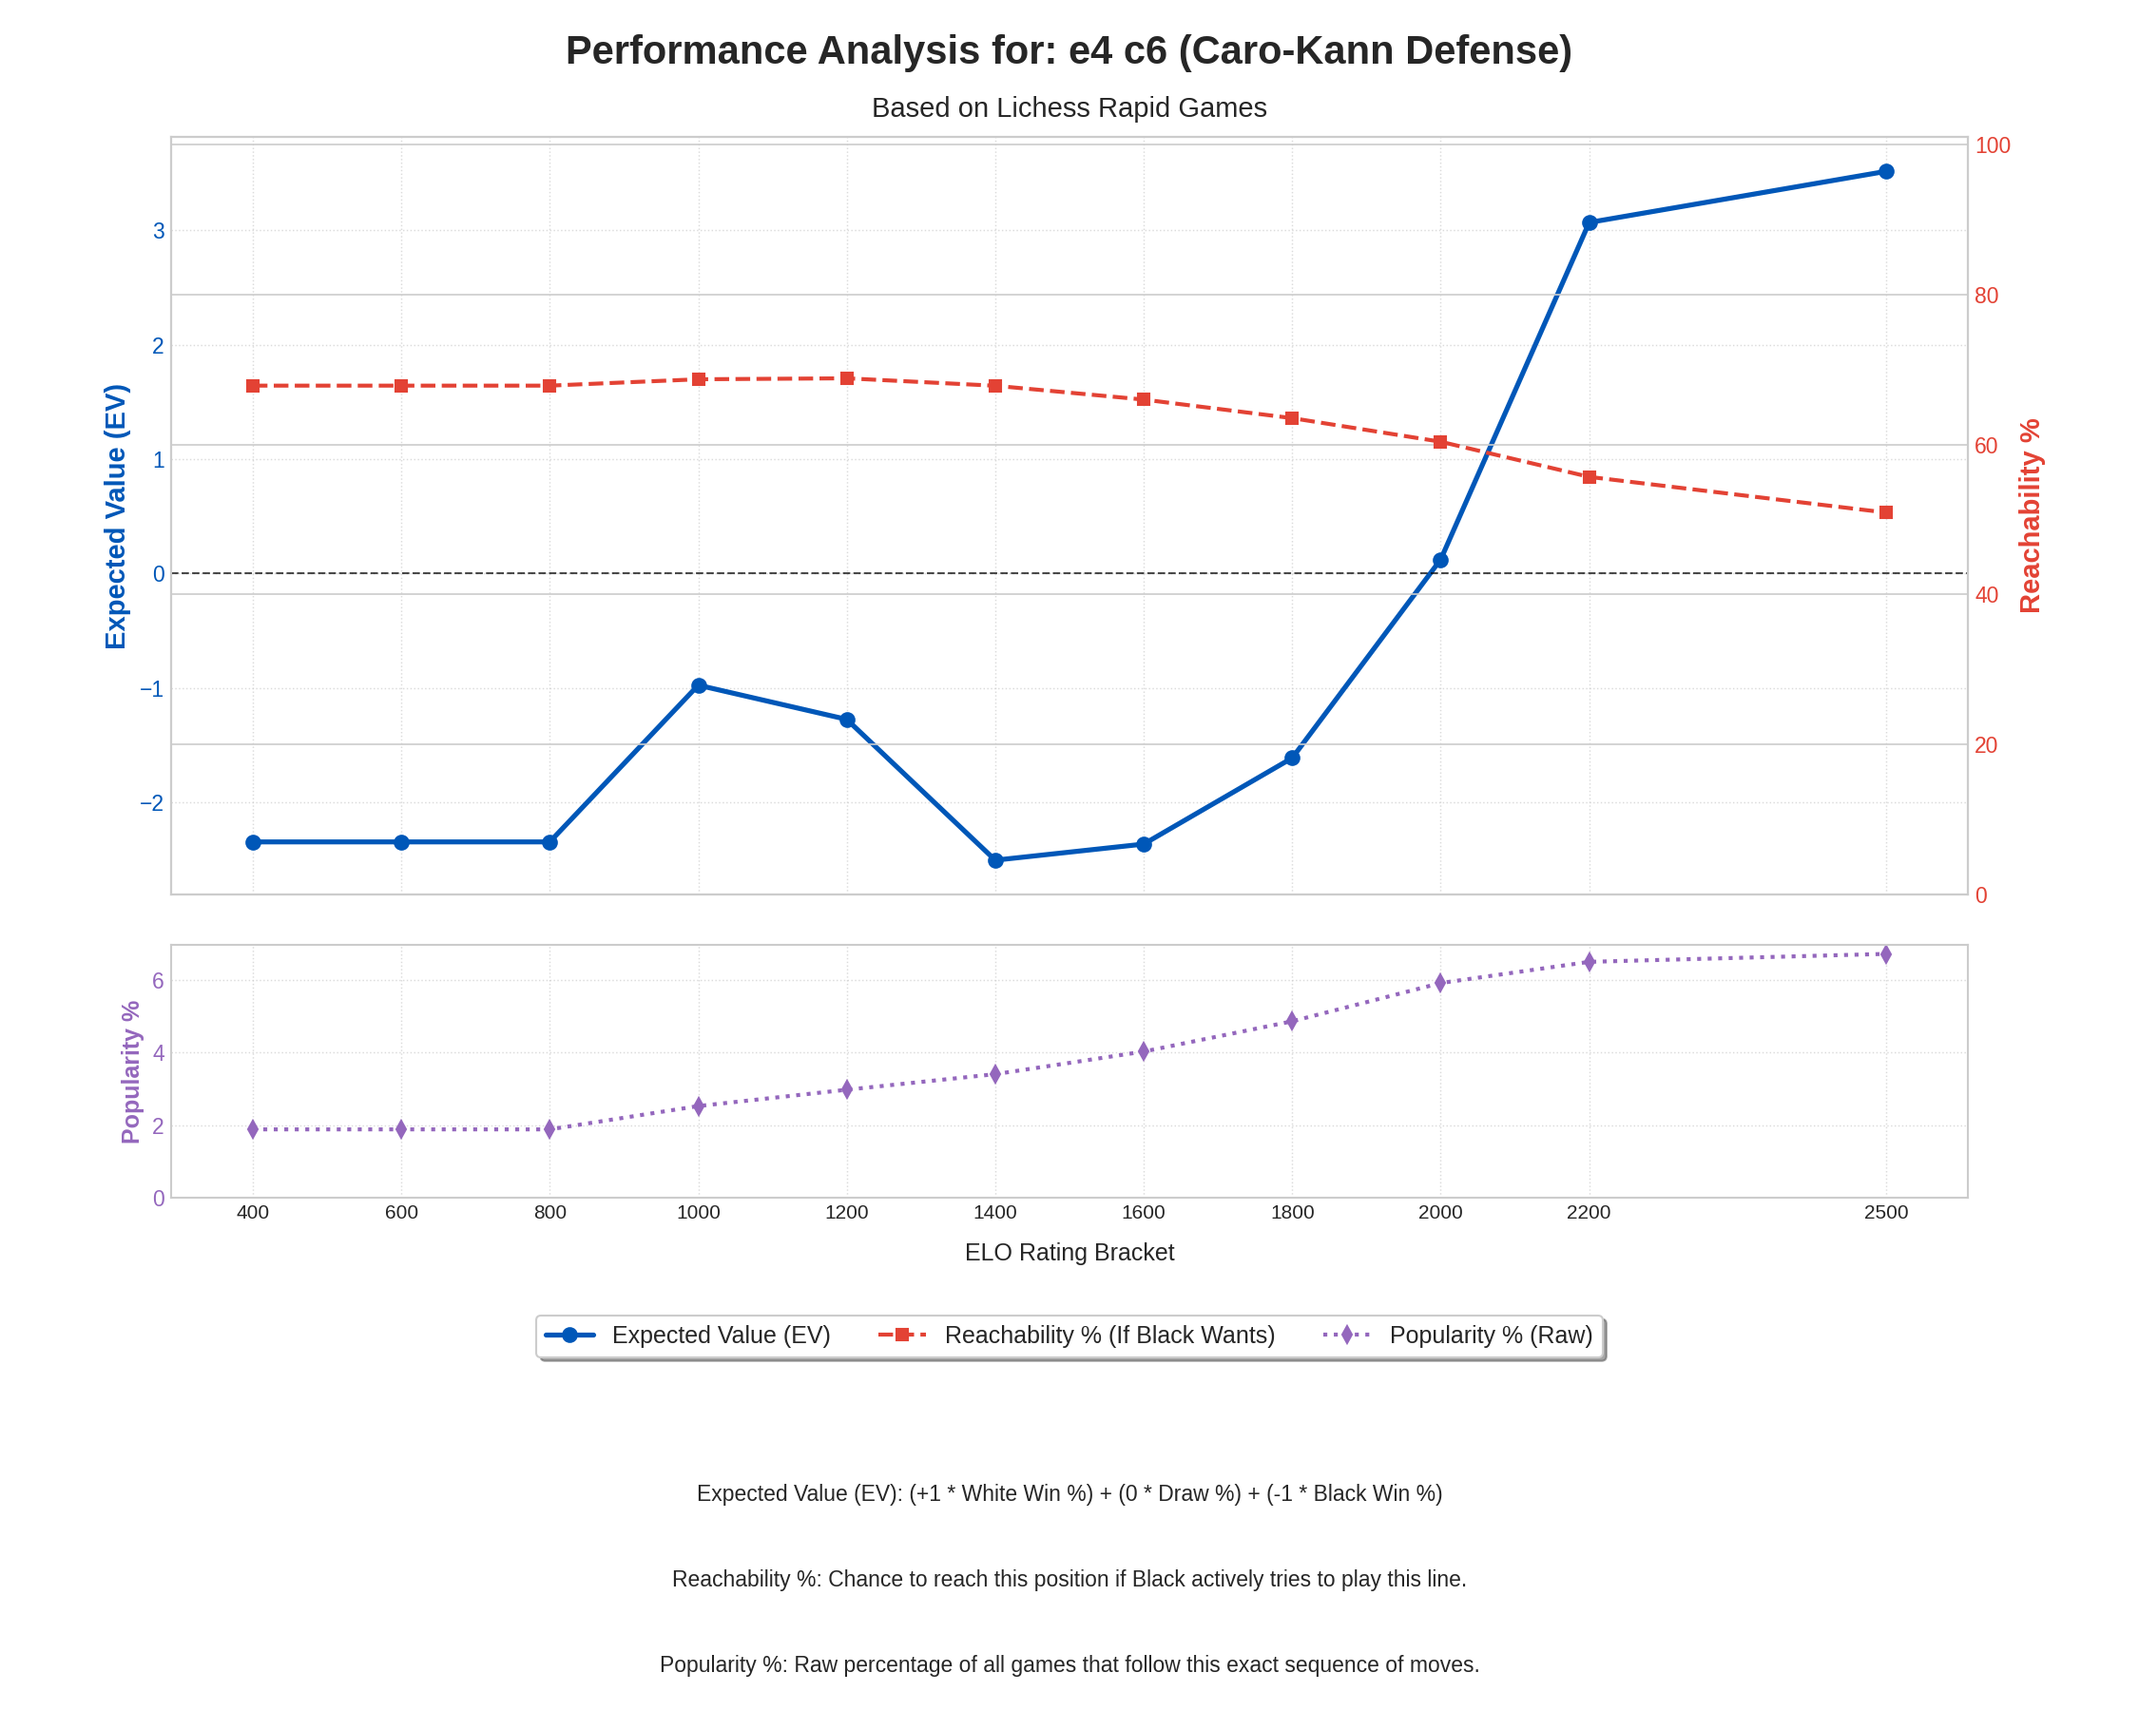
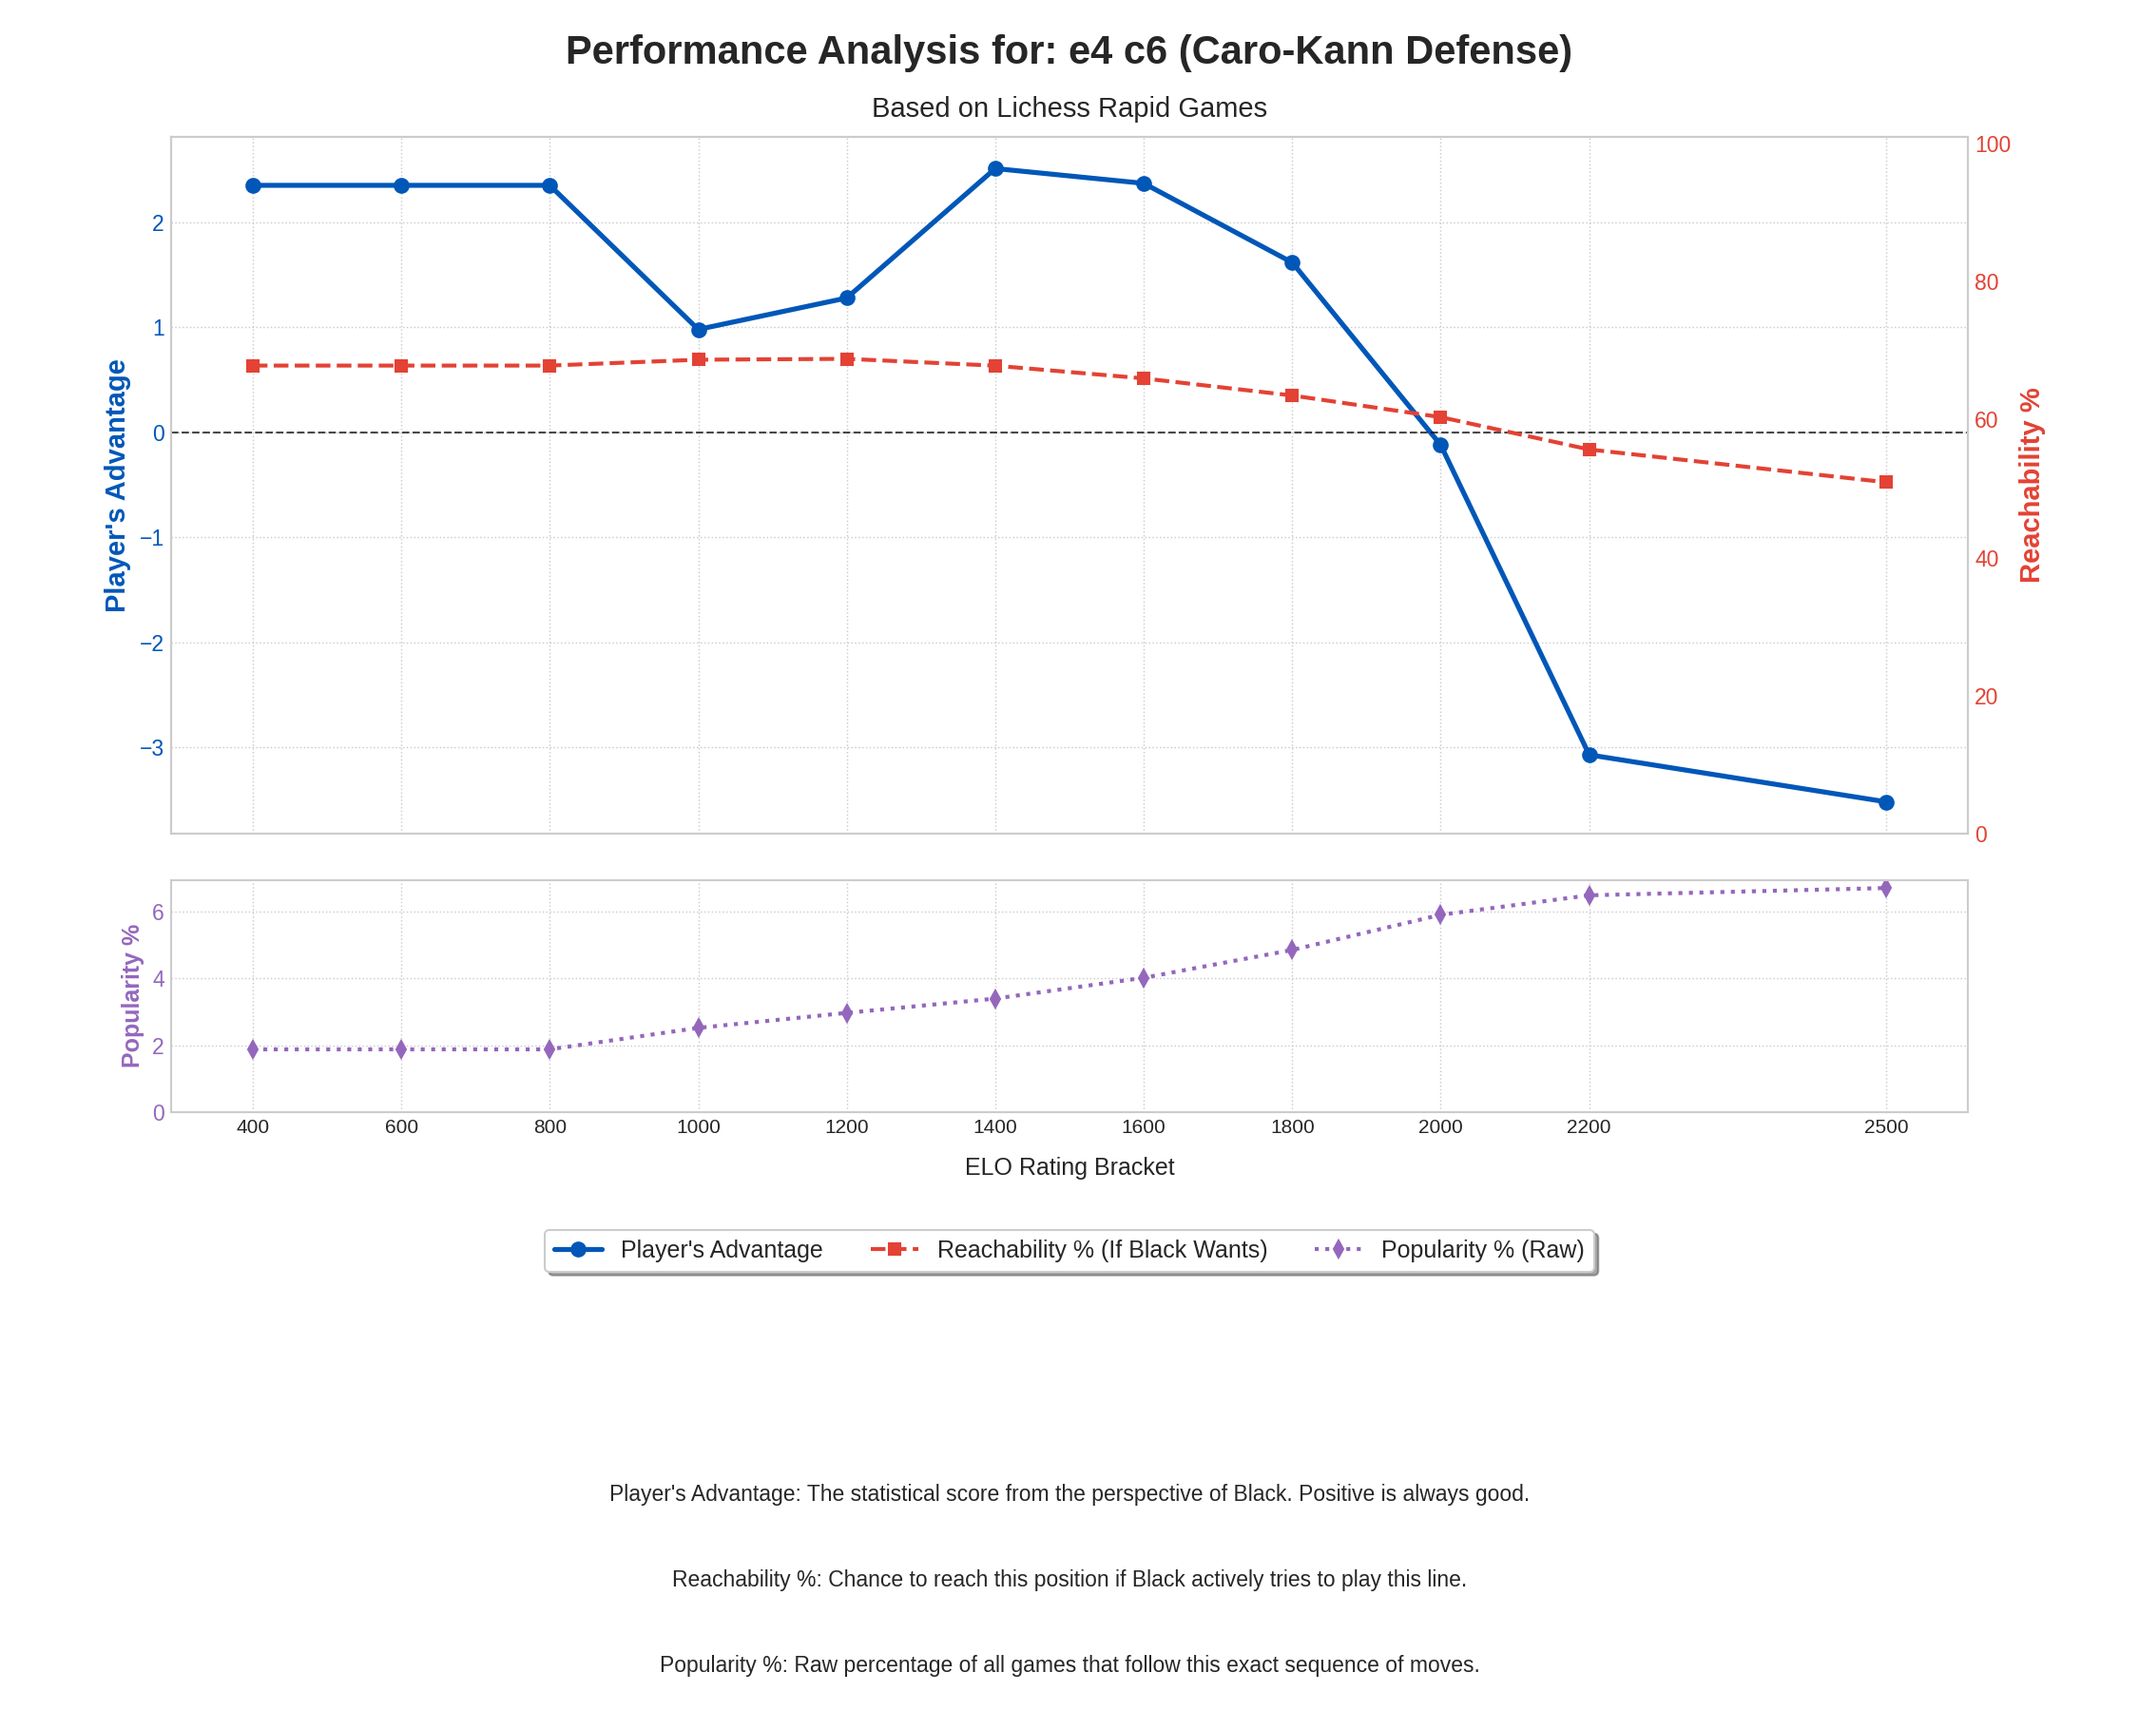
Using player advantage instead of EV to make lines choosen by Black more intuitive to read

diff --git a/wickedlines.py b/wickedlines.py
@@ -38,14 +38,17 @@ class APIManager:
         self.call_count = 0
     def query(self, fen, speeds, ratings):
         cache_key = f"{fen}|{speeds}|{ratings}"
-        if cache_key in self.cache: return self.cache[cache_key]
+        if cache_key in self.cache:
+            return self.cache[cache_key]
         params = {"fen": fen, "variant": "standard", "speeds": speeds, "ratings": ratings}
         while True:
             self.call_count += 1
             try:
                 r = requests.get(self.base_url, params=params)
                 if r.status_code == 429: print(f"\n{colorize('[INFO] Rate limit hit. Waiting 60s...', Colors.YELLOW)}"); time.sleep(60); continue
-                r.raise_for_status(); data = r.json(); self.cache[cache_key] = data; return data
+                r.raise_for_status(); data = r.json()
+                self.cache[cache_key] = data
+                return data
             except requests.exceptions.RequestException as e: print(f"\n{colorize('[ERROR] API request failed: ' + str(e), Colors.RED)}"); return None
 
 api_manager = APIManager()
@@ -241,20 +244,23 @@ def run_plot_mode(args):
     print(f"Fixed Time Control: {args.speed}")
     print("Querying Lichess database for ELO brackets. This may take a moment...")
 
-    elo_ratings, ev_values, reachability_values, popularity_values = [], [], [], []
+    player_advantage_values, reachability_values, popularity_values = [], [], []
     final_line_name = "Unknown Opening"
     forcing_player = "White"
     numeric_elo_ratings = [int(r.replace('2500', '2600')) for r in PLOT_ELO_BRACKETS]
 
     for i, rating in enumerate(PLOT_ELO_BRACKETS):
         ev, reach, pop, line_name, player = get_stats_for_line(args.moves, args.speed, rating)
-        elo_ratings.append(numeric_elo_ratings[i])
-        ev_values.append(ev)
+        
+        # [NEW] Calculate Player's Advantage
+        player_advantage = ev if player == 'White' else ev * -1
+        
+        player_advantage_values.append(player_advantage)
         reachability_values.append(reach)
         popularity_values.append(pop)
         if line_name != "Unknown Opening": final_line_name = line_name
         forcing_player = player
-        print(f"  ({i+1}/{len(PLOT_ELO_BRACKETS)}) Processed {rating} ELO... EV: {ev:+.1f}, Reachability: {reach:.2f}%, Popularity: {pop:.2f}%")
+        print(f"  ({i+1}/{len(PLOT_ELO_BRACKETS)}) Processed {rating} ELO... Player Advantage: {player_advantage:+.1f}, Reachability: {reach:.2f}%, Popularity: {pop:.2f}%")
 
     print(colorize("\nData collection complete. Generating final plot...", Colors.GREEN))
 
@@ -265,33 +271,35 @@ def run_plot_mode(args):
     )
     fig.set_facecolor('white')
 
-    color_ev = '#0057b8'
+    color_adv = '#0057b8' # Blue for advantage
     color_reach = '#e34234'
     color_pop = '#9467bd'
 
-    # --- Top Plot: EV vs. Reachability ---
-    ax1.set_ylabel('Expected Value (EV)', color=color_ev, fontsize=14, weight='bold')
-    ax1.plot(elo_ratings, ev_values, 'o-', color=color_ev, label='Expected Value (EV)', markersize=7, linewidth=2.5)
-    ax1.tick_params(axis='y', labelcolor=color_ev, labelsize=11)
+    # --- Top Plot: Player's Advantage vs. Reachability ---
+    ax1.set_ylabel("Player's Advantage", color=color_adv, fontsize=14, weight='bold')
+    ax1.plot(numeric_elo_ratings, player_advantage_values, 'o-', color=color_adv, label="Player's Advantage", markersize=7, linewidth=2.5)
+    ax1.tick_params(axis='y', labelcolor=color_adv, labelsize=11)
     ax1.axhline(0, color='black', linestyle='--', linewidth=1.0, alpha=0.7)
-    ax1.grid(True, which='both', linestyle=':', linewidth=0.7, alpha=0.7)
+    ax1.grid(True, which='major', axis='y', linestyle=':', linewidth=0.7)
+    ax1.grid(True, which='major', axis='x', linestyle=':', linewidth=0.7)
 
     ax2 = ax1.twinx()
     ax2.set_ylabel('Reachability %', color=color_reach, fontsize=14, weight='bold')
-    ax2.plot(elo_ratings, reachability_values, 's--', color=color_reach, label=f'Reachability % (If {forcing_player} Wants)', markersize=6, linewidth=2.0)
+    ax2.plot(numeric_elo_ratings, reachability_values, 's--', color=color_reach, label=f'Reachability % (If {forcing_player} Wants)', markersize=6, linewidth=2.0)
     ax2.tick_params(axis='y', labelcolor=color_reach, labelsize=11)
-    ax2.set_ylim(bottom=0, top=101) # Set Y-axis from 0 to 100
+    ax2.set_ylim(bottom=0, top=101)
+    ax2.grid(False)
 
     # --- Bottom Plot: Popularity ---
     ax3.set_ylabel('Popularity %', color=color_pop, fontsize=12, weight='bold')
-    ax3.plot(elo_ratings, popularity_values, 'd:', color=color_pop, label='Popularity % (Raw)', markersize=6, linewidth=2.0)
+    ax3.plot(numeric_elo_ratings, popularity_values, 'd:', color=color_pop, label='Popularity % (Raw)', markersize=6, linewidth=2.0)
     ax3.tick_params(axis='y', labelcolor=color_pop, labelsize=11)
-    ax3.set_ylim(bottom=0) # Set Y-axis to start at 0
-    ax3.grid(True, which='both', linestyle=':', linewidth=0.7, alpha=0.7)
+    ax3.set_ylim(bottom=0)
+    ax3.grid(True, which='major', axis='both', linestyle=':', linewidth=0.7)
 
     # --- Shared X-Axis Configuration ---
-    plt.xticks(numeric_elo_ratings, labels=PLOT_ELO_BRACKETS, rotation=30, ha='right')
     ax3.set_xlabel('ELO Rating Bracket', fontsize=12, labelpad=10)
+    plt.xticks(numeric_elo_ratings, labels=PLOT_ELO_BRACKETS, rotation=30, ha='right')
 
     # --- Titles, Legend, and Text ---
     line_str = ' '.join(args.moves)
@@ -303,14 +311,14 @@ def run_plot_mode(args):
     handles2, labels2 = ax2.get_legend_handles_labels()
     handles3, labels3 = ax3.get_legend_handles_labels()
     fig.legend(handles1 + handles2 + handles3, labels1 + labels2 + labels3,
-               loc='lower center', bbox_to_anchor=(0.5, 0.2), ncol=3, fontsize=12, frameon=True, shadow=True)
+               loc='lower center', bbox_to_anchor=(0.5, 0.25), ncol=3, fontsize=12, frameon=True, shadow=True)
 
-    fig.subplots_adjust(bottom=0.3, top=0.92, left=0.08, right=0.92)
-    ev_expl = "Expected Value (EV): (+1 * White Win %) + (0 * Draw %) + (-1 * Black Win %)"
+    fig.subplots_adjust(bottom=0.35, top=0.92, left=0.08, right=0.92)
+    adv_expl = f"Player's Advantage: The statistical score from the perspective of {forcing_player}. Positive is always good."
     reach_expl = f"Reachability %: Chance to reach this position if {forcing_player} actively tries to play this line."
     pop_expl = "Popularity %: Raw percentage of all games that follow this exact sequence of moves."
 
-    fig.text(0.5, 0.12, ev_expl, ha='center', va='bottom', fontsize=11)
+    fig.text(0.5, 0.12, adv_expl, ha='center', va='bottom', fontsize=11)
     fig.text(0.5, 0.07, reach_expl, ha='center', va='bottom', fontsize=11)
     fig.text(0.5, 0.02, pop_expl, ha='center', va='bottom', fontsize=11)
 
@@ -323,8 +331,7 @@ def run_plot_mode(args):
 
     plt.show()
 
-
-# --- Main Execution & Signal Handling ---
+# --- Main Execution & Signal Handling (unchanged from previous version) ---
 def generate_filename(args, config, line_name):
     line_slug = "_".join(args.moves) if args.moves else "start_pos"
     if line_name and line_name != "N/A":
